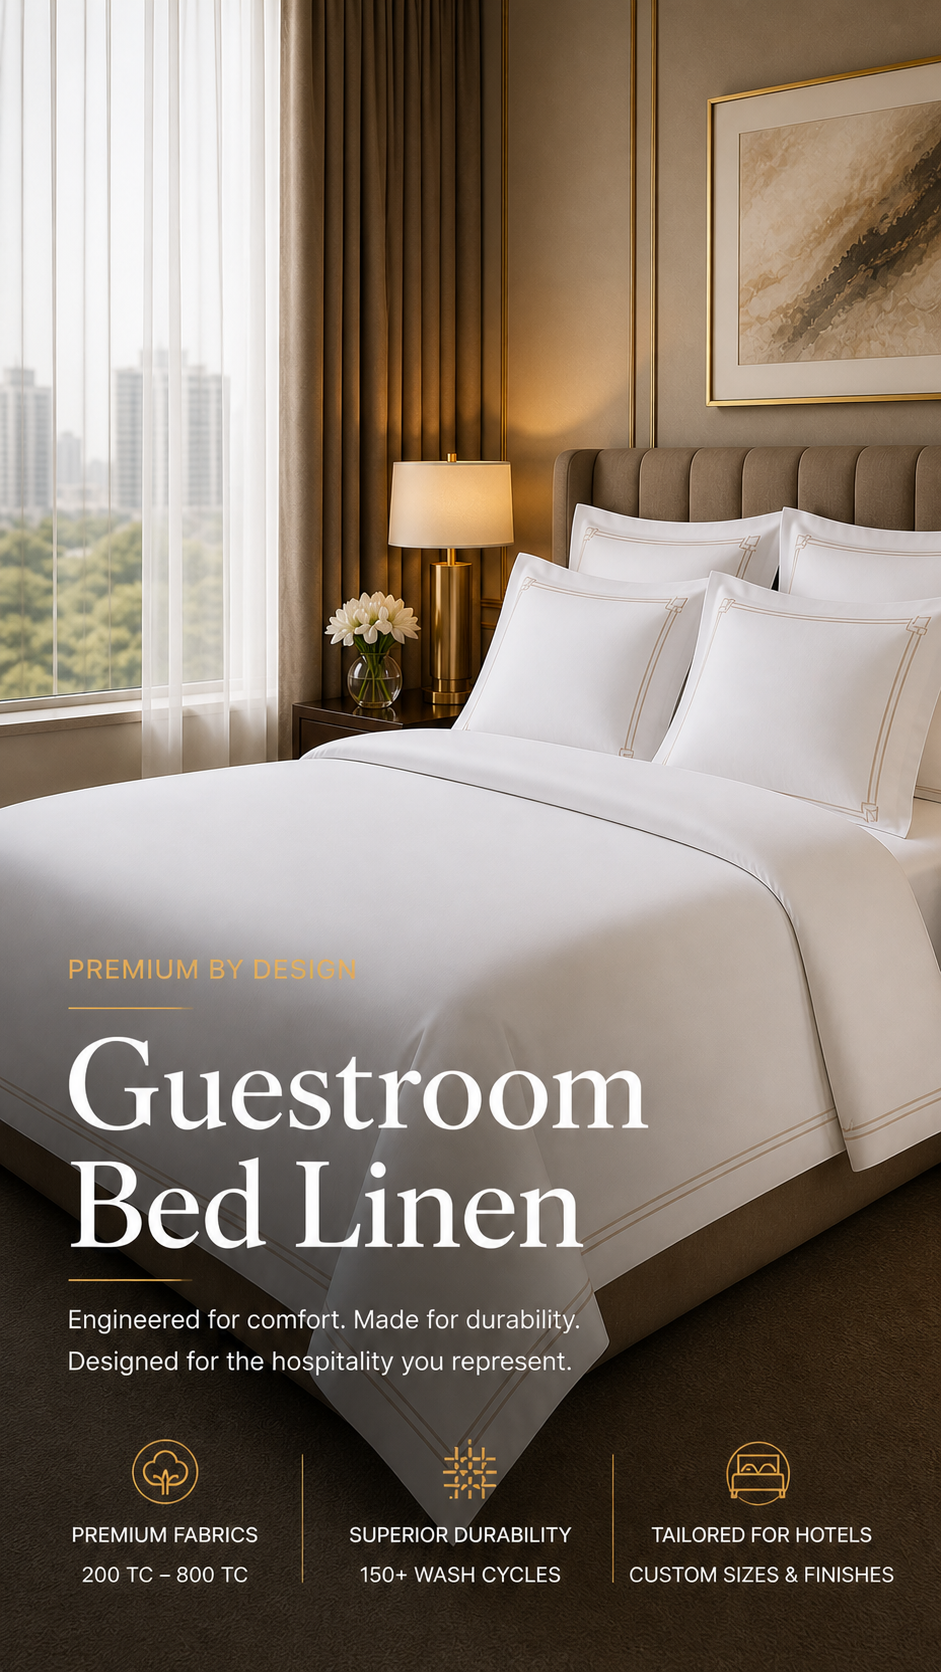
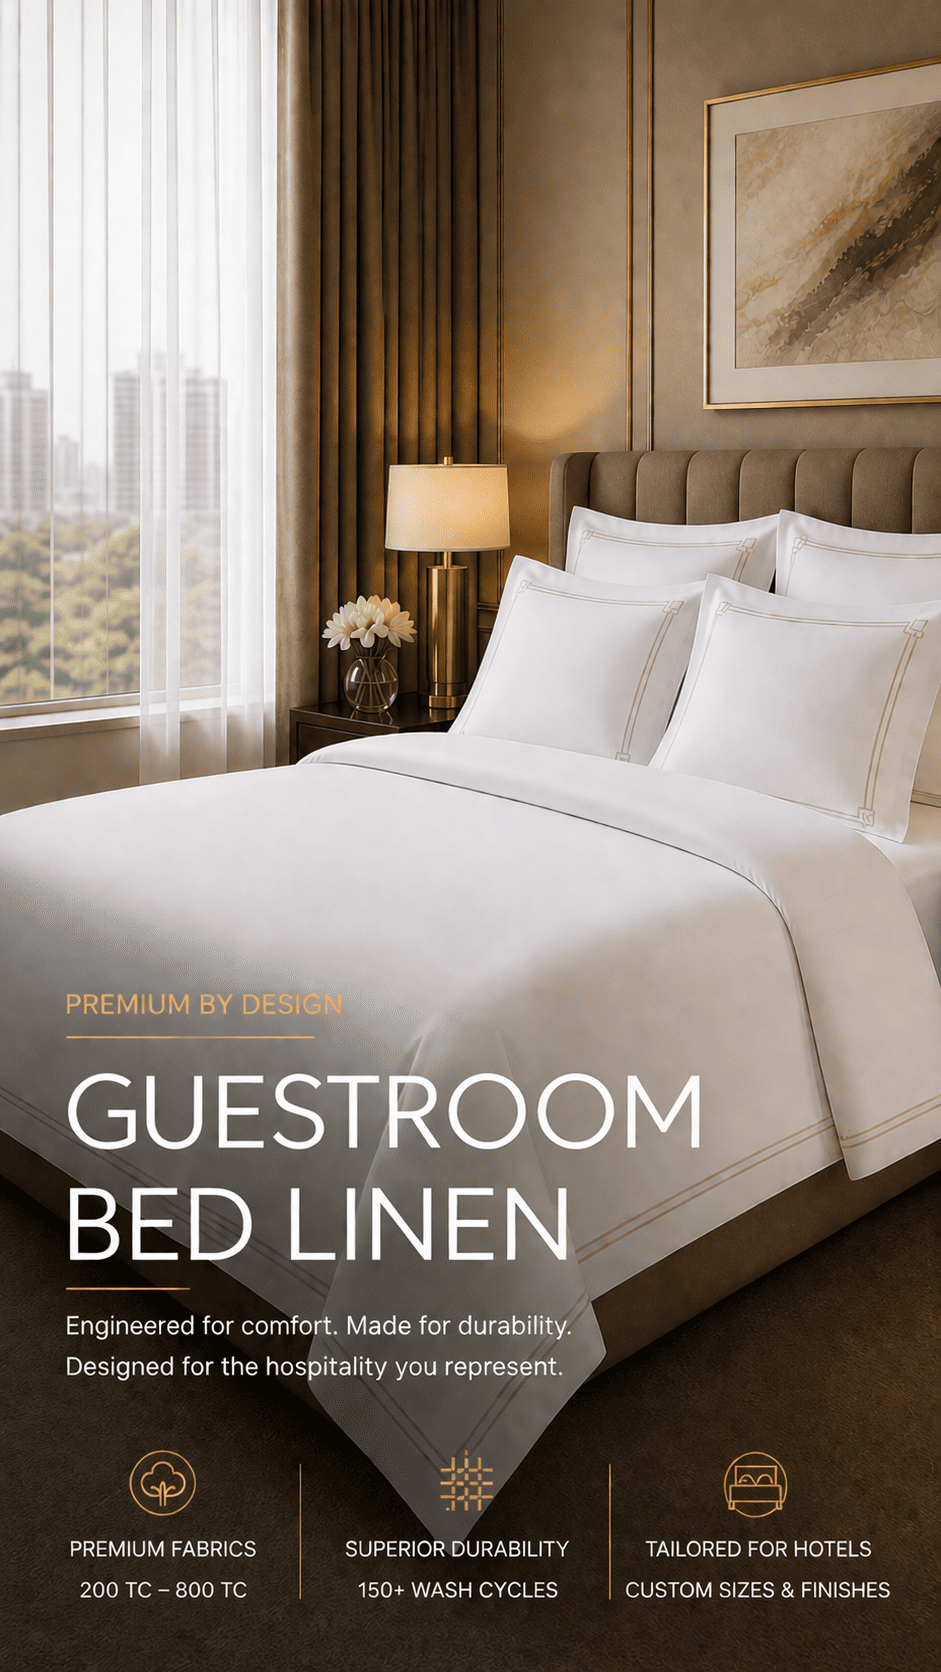
images changed

diff --git a/bed-accessories.html b/bed-accessories.html
@@ -48,10 +48,11 @@
             </div>
         </div>
     </nav> <!-- Hero Section -->
-    <header class="banner-header section-padding valign bg-img" data-overlay-dark="3"
-        data-background="img/bed-accessories-hero.png" style="background-image: url('img/bed-accessories-hero.png');">
+    <header class="banner-header section-padding valign bg-img" data-overlay-dark="0"
+        data-background="img/Bed%20&%20accessories/bed_accessories_deskop.png"
+        data-background-mobile="img/Bed%20&%20accessories/Bed_accessories_mobile.png">
         <div class="container">
-            <div class="row">
+            <!-- <div class="row">
                 <div class="col-md-12 caption mt-90">
                     <h5 class="animate-box" data-animate-effect="fadeInUp"
                         style="letter-spacing: var(--letter-spacing-wide);">CORE Hospitality Linen&trade;</h5>
@@ -59,7 +60,7 @@
                         style="letter-spacing: var(--letter-spacing-wide); font-size: 56px;">Mattress, Accessories<br>&
                         Soft Furnishings</h1>
                 </div>
-            </div>
+            </div> -->
         </div>
     </header>
 

diff --git a/filled-products.html b/filled-products.html
@@ -50,17 +50,17 @@
     </nav>
 
     <!-- Hero Section -->
-    <header class="banner-header section-padding valign bg-img" data-overlay-dark="3"
-        data-background="img/pillows-duvets-hero.png">
+    <header class="banner-header section-padding valign bg-img" data-overlay-dark="0"
+        data-background="img/Pillows%20&%20Duvets/Filled_products.png" data-background-mobile="img/Pillows%20&%20Duvets/Mobile_filled-products.png">
         <div class="container">
-            <div class="row">
+            <!-- <div class="row">
                 <div class="col-md-12 caption mt-90">
                     <h5 class="animate-box" data-animate-effect="fadeInUp"
                         style="letter-spacing: var(--letter-spacing-wide);">CORE Hospitality Linen&trade;</h5>
                     <h1 class="animate-box" data-animate-effect="fadeInUp"
                         style="letter-spacing: var(--letter-spacing-wide); font-size: 64px;">Pillows<br>& Duvets</h1>
                 </div>
-            </div>
+            </div> -->
         </div>
     </header>
 

diff --git a/bath-linen.html b/bath-linen.html
@@ -63,10 +63,10 @@
     </nav>
 
     <!-- Hero Section -->
-    <header class="banner-header section-padding valign bg-img" data-overlay-dark="3"
-        data-background="img/slider/5.jpg" style="background-image: url('img/slider/5.jpg');">
+    <header class="banner-header section-padding valign bg-img" data-overlay-dark="0"
+        data-background="img/Bath/Bath_linen_desktop.png" data-background-mobile="img/Bath/Bath_linen_mobile.png">
         <div class="container">
-            <div class="row">
+            <!-- <div class="row">
                 <div class="col-md-12 caption mt-90">
                     <h5 class="animate-box" data-animate-effect="fadeInUp"
                         style="letter-spacing: var(--letter-spacing-wide);">
@@ -75,7 +75,7 @@
                         style="letter-spacing: var(--letter-spacing-wide); font-size: 64px;">Towels &<br>Bath
                         Accessories</h1>
                 </div>
-            </div>
+            </div> -->
         </div>
     </header>
 

diff --git a/banquet-linen.html b/banquet-linen.html
@@ -63,17 +63,17 @@
   </nav>
 
   <!-- Hero Section -->
-  <header class="banner-header section-padding valign bg-img" data-overlay-dark="4"
-    data-background="img/Banquet%20Linen.png" style="background-image: url('img/Banquet%20Linen.png');">
+  <header class="banner-header section-padding valign bg-img" data-overlay-dark="0"
+    data-background="img/Banquet/Banquet_linen_desktop.png" data-background-mobile="img/Banquet/Banquet_linen_mobile.png">
     <div class="container">
-      <div class="row">
+      <!-- <div class="row">
         <div class="col-md-12 caption mt-90">
           <h5 class="animate-box" data-animate-effect="fadeInUp" style="letter-spacing: var(--letter-spacing-wide);">
             CORE Hospitality Linen&trade;</h5>
           <h1 class="animate-box" data-animate-effect="fadeInUp"
             style="letter-spacing: var(--letter-spacing-wide); font-size: 64px;">Banquet <br>Linen</h1>
         </div>
-      </div>
+      </div> -->
     </div>
   </header>
 

diff --git a/guestroom-bed-linen.html b/guestroom-bed-linen.html
@@ -62,7 +62,7 @@
     </div>
   </nav>
   <!-- Hero Section -->
-  <header class="banner-header section-padding valign bg-img" data-overlay-dark="2"
+  <header class="banner-header section-padding valign bg-img" data-overlay-dark="0"
     data-background="img/Bedsheets/guestroom.png" data-background-mobile="img/Bedsheets/Mobile.png">
     <div class="container">
       <!-- <div class="row">
